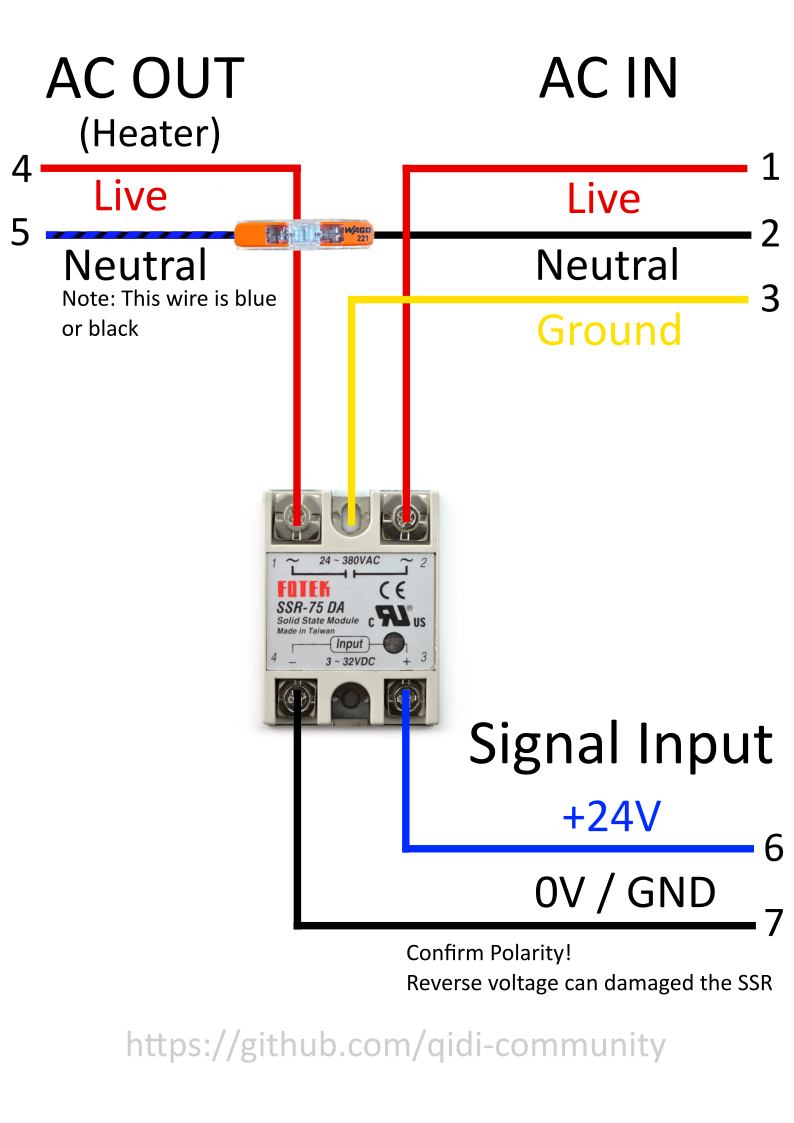
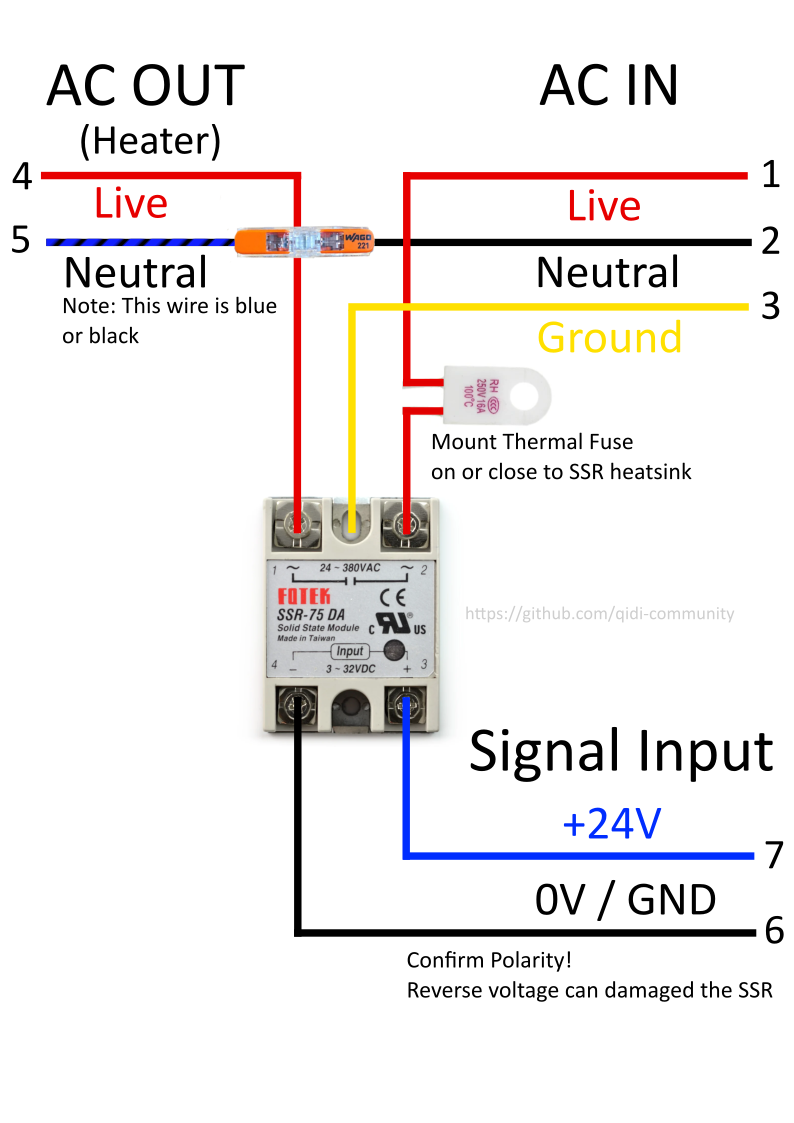
Updater SSR heater mod

diff --git a/content/heater-ssr-upgrade/README.md b/content/heater-ssr-upgrade/README.md
@@ -1,20 +1,31 @@
 # Qidi Plus 4 SSR Upgrade
 
-The Qidi Plus 4 contains an SSR (solid state relay) board that controls the mains AC power to the chamber heater. On early units of the printer this board was melting. Qidi's solution was to reduce the maximum duty cycle for the heater in Klipper firmware. The issue is explained in-depth [here.](https://github.com/qidi-community/Plus4-Wiki/tree/main/content/ssr-board)
+⚠ **This mod requires you to work with AC mains wiring. A mistake in your work can cause harm to you and/or those around you. Please understand and only do this if you are confident in what you are doing. We accept no liability for damage or harm to you, others or your property. If you are in doubt, do not perform this mod.** ⚠ 
+
+The Qidi Plus 4 contains an SSR (solid state relay) board that controls the mains AC power to the chamber heater. On early units of the printer this board was melting on 120V. Qidi's solution was to reduce the maximum duty cycle for the heater in Klipper firmware. The issue is explained in-depth [here.](https://github.com/qidi-community/Plus4-Wiki/tree/main/content/ssr-board)
 
 This is not ideal for a few reasons:
 
 - Software should not be the sole factor preventing a component from overheating and damaging the printer. 
 - The chamber heater now has a reduced amount of effective wattage and heats up significantly slower. [However this has been optimized as much as possible.](https://github.com/qidi-community/Plus4-Wiki/tree/main/content/tuning-for-40-percent-heater-power)
-- Initial findings show Qidi's SSR board still gets very hot (120C) even with the reduced power.
 
-Because of these reasons, we have developed a hardware mod for the SSR board which uses quality off the shelf components.
+Qidi has since designed a new SSR board which appears to perform adequately. And this SSR mod should no longer be needed to have a safe printer. However there are still benefits to performing this mod.
+
+- Upgrade to a high quality SSR
+- Thermal protection if the SSR fails
+- Ability to run the chamber heater at a higher max power setting.
+
+
+### Parts Required
+
+- A puck style SSR (see our recommendations below)
+- Heatsink for SSR (optional, but recommended)
+- Wago or other connectors rated for AC
+- Thermal Fuse 80 - 100C
 
 ### Replacement SSR
 
-⚠ It also requires you to work with AC mains wiring. A mistake in your work can cause harm to you and/or those around you. Please understand and only do this if you are confident in what you are doing. We accept no liability for damage or harm to you, others or your property. If you are in doubt, do not perform this mod. ⚠ 
-
-This mod replaces Qidi's SSR board with a DIN mounted SSR. We believe only the highest quality SSR modules should be used and reccommend you buy one of the following: 
+This mod replaces Qidi's SSR board with a "hockey puck" style DIN mounted SSR. We believe only the highest quality SSR modules should be used and recommend you buy one of the following: 
 
 - OMRON G3NA-210B
 - Panasonic AQA211VL 15A
@@ -25,20 +36,24 @@ They were chosen based on the following criteria:
 - Well known and reliable brand
 - Ability to handle 10 amps or higher continuously
 - Zero-crossing Switching
-- Contain a snubber circuit to prevent EMI pollution on the AC line
+- Contain a snubber circuit to prevent EMI pollution on the AC grid
 - (Optional) Contain over temp protection. 
 
-### Thermals
+### SSR Heatsink
 
 sarge013 on Discord has done excellent work documenting the thermal performance of the replacement SSRs listed above vs the stock SSR board. We suggest taking a look at [his Google Drive](https://drive.google.com/drive/folders/18jHYNrEYjhrYad5NhcfUCJCpBB3ILfZh). 
 
 In summary all of the SSRs suggested above operate at acceptable temperatures. A heatsink is not strictly required, but an excellent idea. 
 
+Heatsinks for the SSR should ideally be bare metal in order to make grounding the SSR easier. Not painted or anodized. Community members have used the following with success:
+
 [80 x 50 x 50mm Heatsink (Amazon US)](https://www.amazon.com/Easycargo-Aluminum-Heatsink-80x50x50mm-80mmx50mmx50mm/dp/B07B3Y2ZNY?th=1)
 
 [126 x 70 x 50mm Heatsink (Amazon US)](https://www.amazon.com/dp/B07QJ8DV8G)
 
+
 ### Install
+
 ⚠This is where the AC mains wiring starts. Do not proceed if you are in doubt of what you are doing. Your safety is your responsibly ⚠
 
 
@@ -52,14 +67,27 @@ In summary all of the SSRs suggested above operate at acceptable temperatures. A
 
 - Remove Qidi's SSR board and Install the printed mount with the new SSR.
 
-- Connect the wires as follows. You must splice together wire 2 and 5. Double check your work.
-  - Note: The ground wire must have continuity with the heatsink on the SSR. The Fotek you can just screw the eyelet terminal to the front of the SSR. On the Panasonic and Omron you need to attach the ground wire to the heatsink. Or on the back between the SSR and the heatsink. Check with a multimeter. Grounding the SSR is critical to preventing EMI.
+- Connect the wires as follows.
+  - Mount the thermal fuse as close to possible to the SSR.
+  - The ground wire must have continuity with the heatsink on the SSR. The Fotek you can just screw the eyelet terminal to the front of the SSR. On the Panasonic and Omron you need to attach the ground wire to the heatsink. Or on the back between the SSR and the heatsink. Check with a multimeter. Grounding the SSR is critical to preventing EMI.
 
 ![Alt text](ssr-upgrade-wiring.png)
 
-- With the rear panel still removed, power on the printer. 
+- Perform A final check before powering on.
 
-- Start the chamber heater and check that it is heater and the new SSR installation is performing correctly.
+![Alt text](ssr_installed.jpg)
+(credit: theFPVgeek)
+
+- With the rear panel still removed, power on the printer.  
+
+- Start the chamber heater and check that it is heater and the new SSR installation is performing correctly. The SSR's LED should be blinking at the same rate as the LED On the mainboard.
+
+
+### Flickering Lights
+
+If you encounter flickering lights after installing the new SSR, then you need to adjust the PWM frequency in Klipper. This is a known issue and the Voron team has [a good explanation of how to fix it.](https://docs.vorondesign.com/community/troubleshooting/cat40/lights_flickering.html)
+
+
 
 
 
